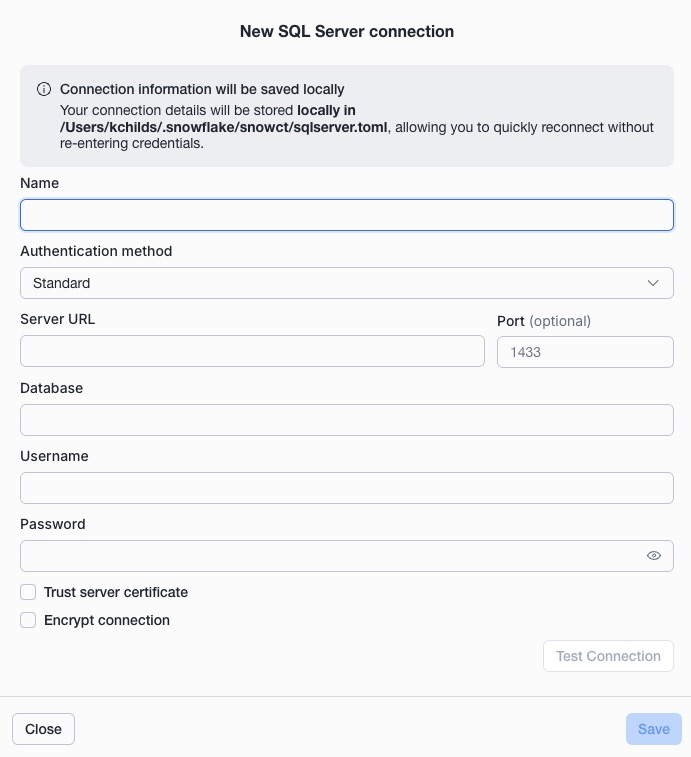
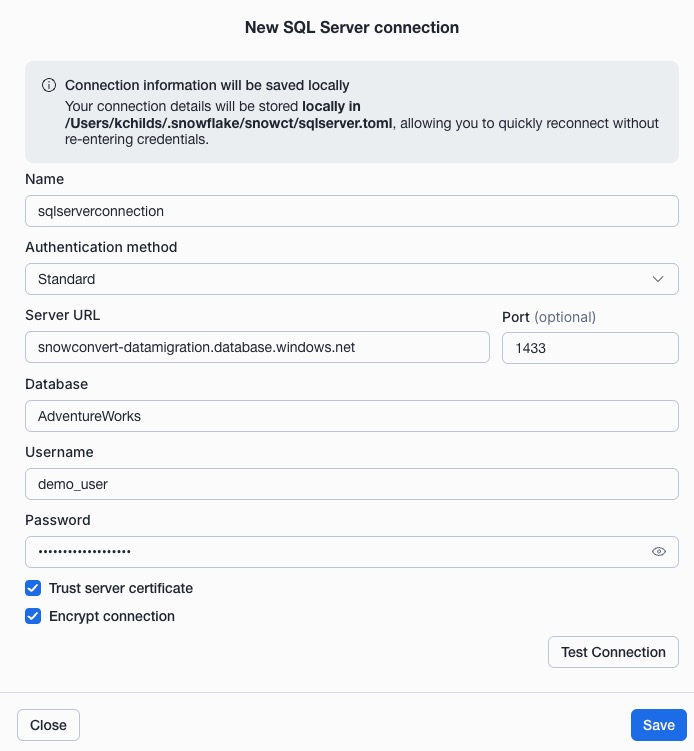
Update SQL Server connection form screenshot and soften PAT auth wording
- Replaced image012b.jpg with updated SQL Server connection form screenshot
- Changed auth note to suggest Standard as fallback if PAT does not work

.... Generated with [Cortex Code](https://docs.snowflake.com/en/user-guide/cortex-code/cortex-code)

diff --git a/lab_instructions/readme.md b/lab_instructions/readme.md
@@ -27,7 +27,7 @@ You might receive this message when you try to open SnowConvert for the first ti
 
 If you do please follow the [directions in the FAQ](https://docs.snowconvert.com/sc/general/frequently-asked-questions-faq#how-do-i-give-permission-to-snowconvert-config-folder) to resolve this issue.
 
-**Important:** When signing in to Snowflake from SnowConvert, make sure you select your **personal demo account** (not SNOWHOUSE or any shared account). Use **Standard** authentication (username/password) — PAT (Personal Access Token) authentication does not work reliably with SnowConvert.
+**Important:** When signing in to Snowflake from SnowConvert, make sure you select your **personal demo account** (not SNOWHOUSE or any shared account). If PAT (Personal Access Token) authentication doesn't work, use **Standard** authentication (username/password) instead.
 
 When you open the application it may prompt you to update it, if an update is available please update the application:
 
